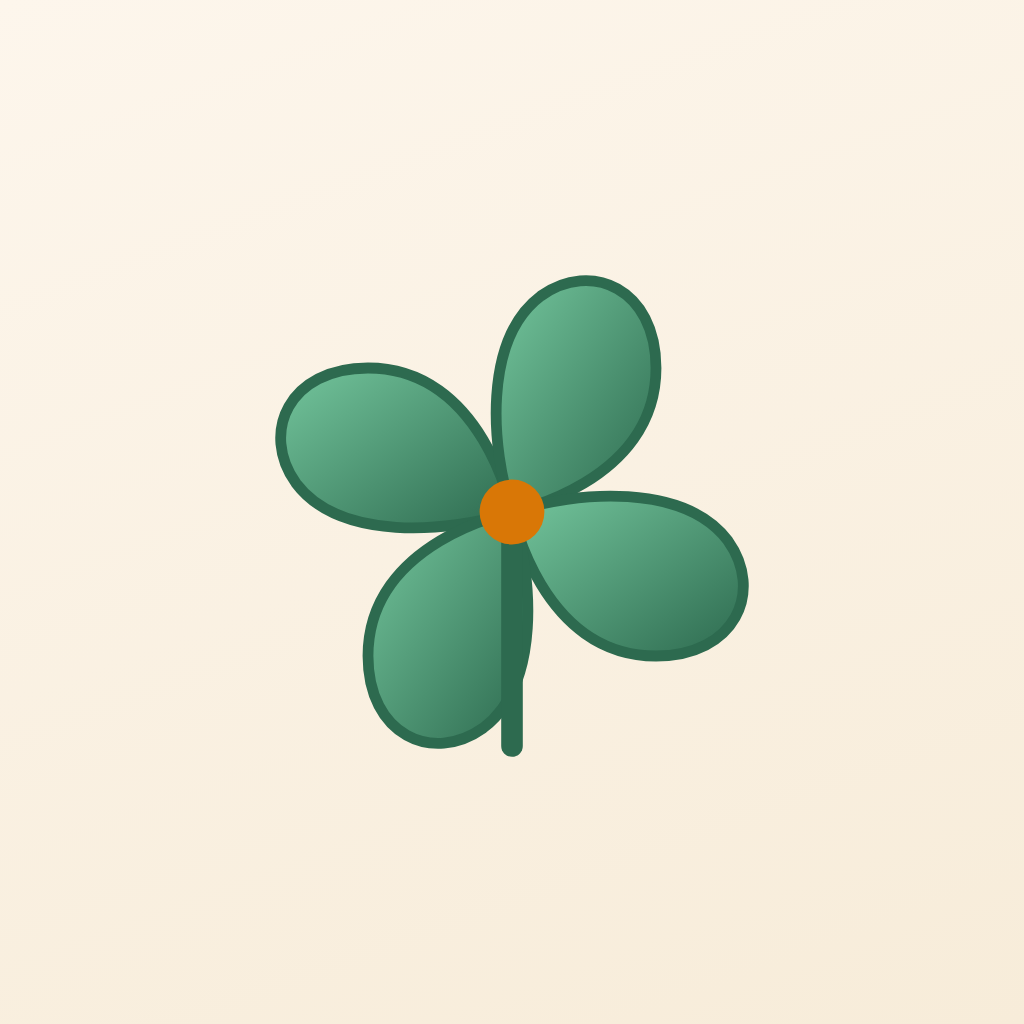
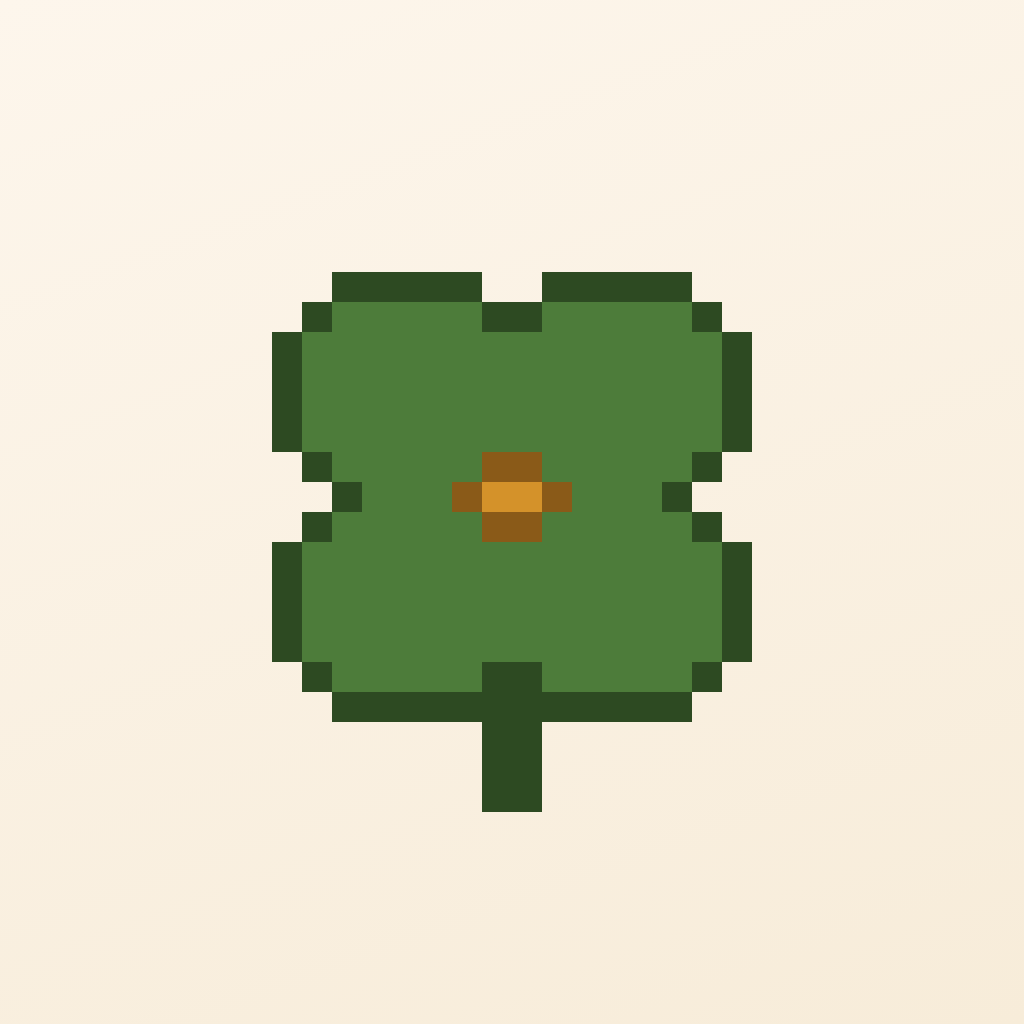
로고를 네잎클로버 픽셀아트로 통일 (기존 幸 도장 교체)
기존 "幸" 한자 도장(LuckStamp)이 다른 픽셀아트 아이콘들과 스타일이
겉돌고("존나못생겼는데" 피드백) 앱 아이콘(public/icon-*.png)도 이전
단계의 매끈한 그라데이션 클로버라 지금의 픽셀아트 톤과 안 맞았음.

탭바의 CloverIcon과 같은 4원+줄기 구도를 픽셀아트 그리드로 다시 그린
CloverStamp를 만들어 온보딩 웰컴 화면·로딩 화면의 "幸" 도장을 교체하고,
앱 아이콘도 같은 디자인으로 재생성(scripts/icon-source.html 갱신,
icon-192/512/1024.png 재출력)해서 앱 안팎의 로고를 하나로 통일함.

Claude-Session: https://claude.ai/code/session_01QuVwrwWKVQ7ikTApTJqUn8

Changed region(s): [[0.25, 0.25, 0.75, 0.8125]]

diff --git a/luck-app/scripts/icon-source.html b/luck-app/scripts/icon-source.html
@@ -13,22 +13,8 @@
 </head>
 <body>
 <div class="icon">
-<svg width="720" height="720" viewBox="0 0 200 200">
-  <defs>
-    <linearGradient id="leaf" x1="0" y1="0" x2="1" y2="1">
-      <stop offset="0%" stop-color="#74c69d"/>
-      <stop offset="100%" stop-color="#2d6a4f"/>
-    </linearGradient>
-  </defs>
-  <g stroke="#2d6a4f" stroke-width="3">
-    <path d="M100 100 C100 100 92 60 60 60 C38 60 30 78 40 92 C52 108 82 106 100 100 Z" fill="url(#leaf)"/>
-    <path d="M100 100 C100 100 140 92 140 60 C140 38 122 30 108 40 C92 52 94 82 100 100 Z" fill="url(#leaf)"/>
-    <path d="M100 100 C100 100 108 140 140 140 C162 140 170 122 160 108 C148 92 118 94 100 100 Z" fill="url(#leaf)"/>
-    <path d="M100 100 C100 100 60 108 60 140 C60 162 78 170 92 160 C108 148 106 118 100 100 Z" fill="url(#leaf)"/>
-  </g>
-  <path d="M100 100 L100 165" stroke="#2d6a4f" stroke-width="6" stroke-linecap="round"/>
-  <circle cx="100" cy="100" r="9" fill="#d97706"/>
-</svg>
+<svg width="660" height="720" viewBox="0 0 22 24" shape-rendering="crispEdges"><rect x="5" y="4" width="1" height="1" fill="#2d4a22"/><rect x="6" y="4" width="1" height="1" fill="#2d4a22"/><rect x="7" y="4" width="1" height="1" fill="#2d4a22"/><rect x="8" y="4" width="1" height="1" fill="#2d4a22"/><rect x="9" y="4" width="1" height="1" fill="#2d4a22"/><rect x="12" y="4" width="1" height="1" fill="#2d4a22"/><rect x="13" y="4" width="1" height="1" fill="#2d4a22"/><rect x="14" y="4" width="1" height="1" fill="#2d4a22"/><rect x="15" y="4" width="1" height="1" fill="#2d4a22"/><rect x="16" y="4" width="1" height="1" fill="#2d4a22"/><rect x="4" y="5" width="1" height="1" fill="#2d4a22"/><rect x="5" y="5" width="1" height="1" fill="#4d7c3a"/><rect x="6" y="5" width="1" height="1" fill="#4d7c3a"/><rect x="7" y="5" width="1" height="1" fill="#4d7c3a"/><rect x="8" y="5" width="1" height="1" fill="#4d7c3a"/><rect x="9" y="5" width="1" height="1" fill="#4d7c3a"/><rect x="10" y="5" width="1" height="1" fill="#2d4a22"/><rect x="11" y="5" width="1" height="1" fill="#2d4a22"/><rect x="12" y="5" width="1" height="1" fill="#4d7c3a"/><rect x="13" y="5" width="1" height="1" fill="#4d7c3a"/><rect x="14" y="5" width="1" height="1" fill="#4d7c3a"/><rect x="15" y="5" width="1" height="1" fill="#4d7c3a"/><rect x="16" y="5" width="1" height="1" fill="#4d7c3a"/><rect x="17" y="5" width="1" height="1" fill="#2d4a22"/><rect x="3" y="6" width="1" height="1" fill="#2d4a22"/><rect x="4" y="6" width="1" height="1" fill="#4d7c3a"/><rect x="5" y="6" width="1" height="1" fill="#4d7c3a"/><rect x="6" y="6" width="1" height="1" fill="#4d7c3a"/><rect x="7" y="6" width="1" height="1" fill="#4d7c3a"/><rect x="8" y="6" width="1" height="1" fill="#4d7c3a"/><rect x="9" y="6" width="1" height="1" fill="#4d7c3a"/><rect x="10" y="6" width="1" height="1" fill="#4d7c3a"/><rect x="11" y="6" width="1" height="1" fill="#4d7c3a"/><rect x="12" y="6" width="1" height="1" fill="#4d7c3a"/><rect x="13" y="6" width="1" height="1" fill="#4d7c3a"/><rect x="14" y="6" width="1" height="1" fill="#4d7c3a"/><rect x="15" y="6" width="1" height="1" fill="#4d7c3a"/><rect x="16" y="6" width="1" height="1" fill="#4d7c3a"/><rect x="17" y="6" width="1" height="1" fill="#4d7c3a"/><rect x="18" y="6" width="1" height="1" fill="#2d4a22"/><rect x="3" y="7" width="1" height="1" fill="#2d4a22"/><rect x="4" y="7" width="1" height="1" fill="#4d7c3a"/><rect x="5" y="7" width="1" height="1" fill="#4d7c3a"/><rect x="6" y="7" width="1" height="1" fill="#4d7c3a"/><rect x="7" y="7" width="1" height="1" fill="#4d7c3a"/><rect x="8" y="7" width="1" height="1" fill="#4d7c3a"/><rect x="9" y="7" width="1" height="1" fill="#4d7c3a"/><rect x="10" y="7" width="1" height="1" fill="#4d7c3a"/><rect x="11" y="7" width="1" height="1" fill="#4d7c3a"/><rect x="12" y="7" width="1" height="1" fill="#4d7c3a"/><rect x="13" y="7" width="1" height="1" fill="#4d7c3a"/><rect x="14" y="7" width="1" height="1" fill="#4d7c3a"/><rect x="15" y="7" width="1" height="1" fill="#4d7c3a"/><rect x="16" y="7" width="1" height="1" fill="#4d7c3a"/><rect x="17" y="7" width="1" height="1" fill="#4d7c3a"/><rect x="18" y="7" width="1" height="1" fill="#2d4a22"/><rect x="3" y="8" width="1" height="1" fill="#2d4a22"/><rect x="4" y="8" width="1" height="1" fill="#4d7c3a"/><rect x="5" y="8" width="1" height="1" fill="#4d7c3a"/><rect x="6" y="8" width="1" height="1" fill="#4d7c3a"/><rect x="7" y="8" width="1" height="1" fill="#4d7c3a"/><rect x="8" y="8" width="1" height="1" fill="#4d7c3a"/><rect x="9" y="8" width="1" height="1" fill="#4d7c3a"/><rect x="10" y="8" width="1" height="1" fill="#4d7c3a"/><rect x="11" y="8" width="1" height="1" fill="#4d7c3a"/><rect x="12" y="8" width="1" height="1" fill="#4d7c3a"/><rect x="13" y="8" width="1" height="1" fill="#4d7c3a"/><rect x="14" y="8" width="1" height="1" fill="#4d7c3a"/><rect x="15" y="8" width="1" height="1" fill="#4d7c3a"/><rect x="16" y="8" width="1" height="1" fill="#4d7c3a"/><rect x="17" y="8" width="1" height="1" fill="#4d7c3a"/><rect x="18" y="8" width="1" height="1" fill="#2d4a22"/><rect x="3" y="9" width="1" height="1" fill="#2d4a22"/><rect x="4" y="9" width="1" height="1" fill="#4d7c3a"/><rect x="5" y="9" width="1" height="1" fill="#4d7c3a"/><rect x="6" y="9" width="1" height="1" fill="#4d7c3a"/><rect x="7" y="9" width="1" height="1" fill="#4d7c3a"/><rect x="8" y="9" width="1" height="1" fill="#4d7c3a"/><rect x="9" y="9" width="1" height="1" fill="#4d7c3a"/><rect x="10" y="9" width="1" height="1" fill="#4d7c3a"/><rect x="11" y="9" width="1" height="1" fill="#4d7c3a"/><rect x="12" y="9" width="1" height="1" fill="#4d7c3a"/><rect x="13" y="9" width="1" height="1" fill="#4d7c3a"/><rect x="14" y="9" width="1" height="1" fill="#4d7c3a"/><rect x="15" y="9" width="1" height="1" fill="#4d7c3a"/><rect x="16" y="9" width="1" height="1" fill="#4d7c3a"/><rect x="17" y="9" width="1" height="1" fill="#4d7c3a"/><rect x="18" y="9" width="1" height="1" fill="#2d4a22"/><rect x="4" y="10" width="1" height="1" fill="#2d4a22"/><rect x="5" y="10" width="1" height="1" fill="#4d7c3a"/><rect x="6" y="10" width="1" height="1" fill="#4d7c3a"/><rect x="7" y="10" width="1" height="1" fill="#4d7c3a"/><rect x="8" y="10" width="1" height="1" fill="#4d7c3a"/><rect x="9" y="10" width="1" height="1" fill="#4d7c3a"/><rect x="10" y="10" width="1" height="1" fill="#8a5a18"/><rect x="11" y="10" width="1" height="1" fill="#8a5a18"/><rect x="12" y="10" width="1" height="1" fill="#4d7c3a"/><rect x="13" y="10" width="1" height="1" fill="#4d7c3a"/><rect x="14" y="10" width="1" height="1" fill="#4d7c3a"/><rect x="15" y="10" width="1" height="1" fill="#4d7c3a"/><rect x="16" y="10" width="1" height="1" fill="#4d7c3a"/><rect x="17" y="10" width="1" height="1" fill="#2d4a22"/><rect x="5" y="11" width="1" height="1" fill="#2d4a22"/><rect x="6" y="11" width="1" height="1" fill="#4d7c3a"/><rect x="7" y="11" width="1" height="1" fill="#4d7c3a"/><rect x="8" y="11" width="1" height="1" fill="#4d7c3a"/><rect x="9" y="11" width="1" height="1" fill="#8a5a18"/><rect x="10" y="11" width="1" height="1" fill="#d4922a"/><rect x="11" y="11" width="1" height="1" fill="#d4922a"/><rect x="12" y="11" width="1" height="1" fill="#8a5a18"/><rect x="13" y="11" width="1" height="1" fill="#4d7c3a"/><rect x="14" y="11" width="1" height="1" fill="#4d7c3a"/><rect x="15" y="11" width="1" height="1" fill="#4d7c3a"/><rect x="16" y="11" width="1" height="1" fill="#2d4a22"/><rect x="4" y="12" width="1" height="1" fill="#2d4a22"/><rect x="5" y="12" width="1" height="1" fill="#4d7c3a"/><rect x="6" y="12" width="1" height="1" fill="#4d7c3a"/><rect x="7" y="12" width="1" height="1" fill="#4d7c3a"/><rect x="8" y="12" width="1" height="1" fill="#4d7c3a"/><rect x="9" y="12" width="1" height="1" fill="#4d7c3a"/><rect x="10" y="12" width="1" height="1" fill="#8a5a18"/><rect x="11" y="12" width="1" height="1" fill="#8a5a18"/><rect x="12" y="12" width="1" height="1" fill="#4d7c3a"/><rect x="13" y="12" width="1" height="1" fill="#4d7c3a"/><rect x="14" y="12" width="1" height="1" fill="#4d7c3a"/><rect x="15" y="12" width="1" height="1" fill="#4d7c3a"/><rect x="16" y="12" width="1" height="1" fill="#4d7c3a"/><rect x="17" y="12" width="1" height="1" fill="#2d4a22"/><rect x="3" y="13" width="1" height="1" fill="#2d4a22"/><rect x="4" y="13" width="1" height="1" fill="#4d7c3a"/><rect x="5" y="13" width="1" height="1" fill="#4d7c3a"/><rect x="6" y="13" width="1" height="1" fill="#4d7c3a"/><rect x="7" y="13" width="1" height="1" fill="#4d7c3a"/><rect x="8" y="13" width="1" height="1" fill="#4d7c3a"/><rect x="9" y="13" width="1" height="1" fill="#4d7c3a"/><rect x="10" y="13" width="1" height="1" fill="#4d7c3a"/><rect x="11" y="13" width="1" height="1" fill="#4d7c3a"/><rect x="12" y="13" width="1" height="1" fill="#4d7c3a"/><rect x="13" y="13" width="1" height="1" fill="#4d7c3a"/><rect x="14" y="13" width="1" height="1" fill="#4d7c3a"/><rect x="15" y="13" width="1" height="1" fill="#4d7c3a"/><rect x="16" y="13" width="1" height="1" fill="#4d7c3a"/><rect x="17" y="13" width="1" height="1" fill="#4d7c3a"/><rect x="18" y="13" width="1" height="1" fill="#2d4a22"/><rect x="3" y="14" width="1" height="1" fill="#2d4a22"/><rect x="4" y="14" width="1" height="1" fill="#4d7c3a"/><rect x="5" y="14" width="1" height="1" fill="#4d7c3a"/><rect x="6" y="14" width="1" height="1" fill="#4d7c3a"/><rect x="7" y="14" width="1" height="1" fill="#4d7c3a"/><rect x="8" y="14" width="1" height="1" fill="#4d7c3a"/><rect x="9" y="14" width="1" height="1" fill="#4d7c3a"/><rect x="10" y="14" width="1" height="1" fill="#4d7c3a"/><rect x="11" y="14" width="1" height="1" fill="#4d7c3a"/><rect x="12" y="14" width="1" height="1" fill="#4d7c3a"/><rect x="13" y="14" width="1" height="1" fill="#4d7c3a"/><rect x="14" y="14" width="1" height="1" fill="#4d7c3a"/><rect x="15" y="14" width="1" height="1" fill="#4d7c3a"/><rect x="16" y="14" width="1" height="1" fill="#4d7c3a"/><rect x="17" y="14" width="1" height="1" fill="#4d7c3a"/><rect x="18" y="14" width="1" height="1" fill="#2d4a22"/><rect x="3" y="15" width="1" height="1" fill="#2d4a22"/><rect x="4" y="15" width="1" height="1" fill="#4d7c3a"/><rect x="5" y="15" width="1" height="1" fill="#4d7c3a"/><rect x="6" y="15" width="1" height="1" fill="#4d7c3a"/><rect x="7" y="15" width="1" height="1" fill="#4d7c3a"/><rect x="8" y="15" width="1" height="1" fill="#4d7c3a"/><rect x="9" y="15" width="1" height="1" fill="#4d7c3a"/><rect x="10" y="15" width="1" height="1" fill="#4d7c3a"/><rect x="11" y="15" width="1" height="1" fill="#4d7c3a"/><rect x="12" y="15" width="1" height="1" fill="#4d7c3a"/><rect x="13" y="15" width="1" height="1" fill="#4d7c3a"/><rect x="14" y="15" width="1" height="1" fill="#4d7c3a"/><rect x="15" y="15" width="1" height="1" fill="#4d7c3a"/><rect x="16" y="15" width="1" height="1" fill="#4d7c3a"/><rect x="17" y="15" width="1" height="1" fill="#4d7c3a"/><rect x="18" y="15" width="1" height="1" fill="#2d4a22"/><rect x="3" y="16" width="1" height="1" fill="#2d4a22"/><rect x="4" y="16" width="1" height="1" fill="#4d7c3a"/><rect x="5" y="16" width="1" height="1" fill="#4d7c3a"/><rect x="6" y="16" width="1" height="1" fill="#4d7c3a"/><rect x="7" y="16" width="1" height="1" fill="#4d7c3a"/><rect x="8" y="16" width="1" height="1" fill="#4d7c3a"/><rect x="9" y="16" width="1" height="1" fill="#4d7c3a"/><rect x="10" y="16" width="1" height="1" fill="#4d7c3a"/><rect x="11" y="16" width="1" height="1" fill="#4d7c3a"/><rect x="12" y="16" width="1" height="1" fill="#4d7c3a"/><rect x="13" y="16" width="1" height="1" fill="#4d7c3a"/><rect x="14" y="16" width="1" height="1" fill="#4d7c3a"/><rect x="15" y="16" width="1" height="1" fill="#4d7c3a"/><rect x="16" y="16" width="1" height="1" fill="#4d7c3a"/><rect x="17" y="16" width="1" height="1" fill="#4d7c3a"/><rect x="18" y="16" width="1" height="1" fill="#2d4a22"/><rect x="4" y="17" width="1" height="1" fill="#2d4a22"/><rect x="5" y="17" width="1" height="1" fill="#4d7c3a"/><rect x="6" y="17" width="1" height="1" fill="#4d7c3a"/><rect x="7" y="17" width="1" height="1" fill="#4d7c3a"/><rect x="8" y="17" width="1" height="1" fill="#4d7c3a"/><rect x="9" y="17" width="1" height="1" fill="#4d7c3a"/><rect x="10" y="17" width="1" height="1" fill="#2d4a22"/><rect x="11" y="17" width="1" height="1" fill="#2d4a22"/><rect x="12" y="17" width="1" height="1" fill="#4d7c3a"/><rect x="13" y="17" width="1" height="1" fill="#4d7c3a"/><rect x="14" y="17" width="1" height="1" fill="#4d7c3a"/><rect x="15" y="17" width="1" height="1" fill="#4d7c3a"/><rect x="16" y="17" width="1" height="1" fill="#4d7c3a"/><rect x="17" y="17" width="1" height="1" fill="#2d4a22"/><rect x="5" y="18" width="1" height="1" fill="#2d4a22"/><rect x="6" y="18" width="1" height="1" fill="#2d4a22"/><rect x="7" y="18" width="1" height="1" fill="#2d4a22"/><rect x="8" y="18" width="1" height="1" fill="#2d4a22"/><rect x="9" y="18" width="1" height="1" fill="#2d4a22"/><rect x="10" y="18" width="1" height="1" fill="#2d4a22"/><rect x="11" y="18" width="1" height="1" fill="#2d4a22"/><rect x="12" y="18" width="1" height="1" fill="#2d4a22"/><rect x="13" y="18" width="1" height="1" fill="#2d4a22"/><rect x="14" y="18" width="1" height="1" fill="#2d4a22"/><rect x="15" y="18" width="1" height="1" fill="#2d4a22"/><rect x="16" y="18" width="1" height="1" fill="#2d4a22"/><rect x="10" y="19" width="1" height="1" fill="#2d4a22"/><rect x="11" y="19" width="1" height="1" fill="#2d4a22"/><rect x="10" y="20" width="1" height="1" fill="#2d4a22"/><rect x="11" y="20" width="1" height="1" fill="#2d4a22"/><rect x="10" y="21" width="1" height="1" fill="#2d4a22"/><rect x="11" y="21" width="1" height="1" fill="#2d4a22"/></svg>
+
 </div>
 </body>
 </html>

diff --git a/luck-app/components/LuckArt.tsx b/luck-app/components/LuckArt.tsx
@@ -85,26 +85,21 @@ export function CookiePixel({ size = 40, className, style }: ArtProps) {
   return <PixelArt grid={cookieGrid()} size={size} className={className} style={style} />;
 }
 
-// ── "행운" 도장(스탬프) — 전통 도장을 본뜬 배지 ───────────────────────────────
-export function LuckStamp({ size = 88, rotate = -8, text = "幸" }: { size?: number; rotate?: number; text?: string }) {
-  return (
-    <div
-      style={{
-        width: size, height: size,
-        background: "#b3382c",
-        border: "3px solid #7a1f18",
-        borderRadius: 6,
-        display: "flex", alignItems: "center", justifyContent: "center",
-        transform: `rotate(${rotate}deg)`,
-        boxShadow: "3px 3px 0 rgba(74,50,32,0.35)",
-        color: "#fdf3e0",
-        fontFamily: "Galmuri, sans-serif",
-        fontWeight: 700,
-        fontSize: size * 0.42,
-        lineHeight: 1,
-      }}
-    >
-      {text}
-    </div>
-  );
+// ── 네잎클로버 — 앱 로고/브랜드 마크. 탭바의 CloverIcon(선 아이콘)과 같은
+//    4원+줄기 구도를 픽셀아트로 그려서, 앱 아이콘·온보딩·로딩 화면까지
+//    하나의 로고로 통일한다(기존 "幸" 도장은 다른 아이콘들과 스타일이
+//    겉돌아서 이 클로버로 교체했다).
+const CLOVER_W = 22, CLOVER_H = 24;
+function cloverGrid(): Grid {
+  const petal = (cx: number, cy: number) => makeMask(CLOVER_W, CLOVER_H, (x, y) => Math.hypot(x - cx, y - cy) <= 4.3);
+  const petals = unionMask(petal(7.5, 8), petal(14.5, 8), petal(7.5, 15), petal(14.5, 15));
+  const stem = makeMask(CLOVER_W, CLOVER_H, (x, y) => x >= 10 && x <= 12 && y >= 13 && y <= 22);
+  const petalLayer = outlineify(petals, "#4d7c3a", "#2d4a22");
+  const stemLayer = outlineify(stem, "#4d7c3a", "#2d4a22");
+  const dot = makeMask(CLOVER_W, CLOVER_H, (x, y) => Math.hypot(x - 11, y - 11.5) <= 1.8);
+  const dotLayer = outlineify(dot, "#d4922a", "#8a5a18");
+  return mergeGrids(CLOVER_W, CLOVER_H, stemLayer, petalLayer, dotLayer);
+}
+export function CloverStamp({ size = 88, className, style }: ArtProps) {
+  return <PixelArt grid={cloverGrid()} size={size} className={className} style={style} />;
 }

diff --git a/luck-app/app/page.tsx b/luck-app/app/page.tsx
@@ -4,7 +4,7 @@ import BirthInputForm, { defaultProfile } from "@/components/BirthInputForm";
 import OnboardingWizard from "@/components/OnboardingWizard";
 import HistoryList from "@/components/HistoryList";
 import { CloverIcon, MemoIcon, ChartIcon, GearIcon, SparkleIcon } from "@/components/Icons";
-import { SunPixel, CloudPixel, PouchPixel, CookiePixel, LuckStamp } from "@/components/LuckArt";
+import { SunPixel, CloudPixel, PouchPixel, CookiePixel, CloverStamp } from "@/components/LuckArt";
 import { analyzeSaju } from "@/lib/saju";
 import { getDailyLuck, getKstDateKey, type DailyLuck } from "@/lib/luckEngine";
 import { getRandomFortune } from "@/lib/fortuneCookie";
@@ -46,7 +46,7 @@ function LoadingScreen() {
   return (
     <main className="min-h-screen flex flex-col items-center justify-center px-10" style={{ background: "var(--bg)" }}>
       <div className="float-leaf mb-5">
-        <LuckStamp size={64} />
+        <CloverStamp size={64} />
       </div>
       <p className="font-display text-lg text-center leading-relaxed" style={{ color: "var(--ink)" }}>
         행운은 필요로 하는<br />사람에게 찾아간다

diff --git a/luck-app/components/OnboardingWizard.tsx b/luck-app/components/OnboardingWizard.tsx
@@ -2,7 +2,7 @@
 import { useState } from "react";
 import type { SajuProfile } from "@/lib/storage";
 import { MemoIcon } from "@/components/Icons";
-import { LuckStamp, SunPixel, CloudPixel } from "@/components/LuckArt";
+import { CloverStamp, SunPixel, CloudPixel } from "@/components/LuckArt";
 
 const HOURS = [
   { v: "unknown", label: "시간 모름" },
@@ -93,7 +93,7 @@ export default function OnboardingWizard({
             <SunPixel size={30} className="absolute -top-2 right-8" />
             <CloudPixel size={44} className="absolute top-1 left-2 opacity-90" />
             <div className="flex justify-center mb-4 float-leaf">
-              <LuckStamp size={84} />
+              <CloverStamp size={84} />
             </div>
             <h1 className="font-display text-4xl" style={{ color: "var(--ink)" }}>행운의 앱</h1>
             <p className="text-sm mt-3 leading-relaxed" style={{ color: "var(--ink-soft)" }}>
